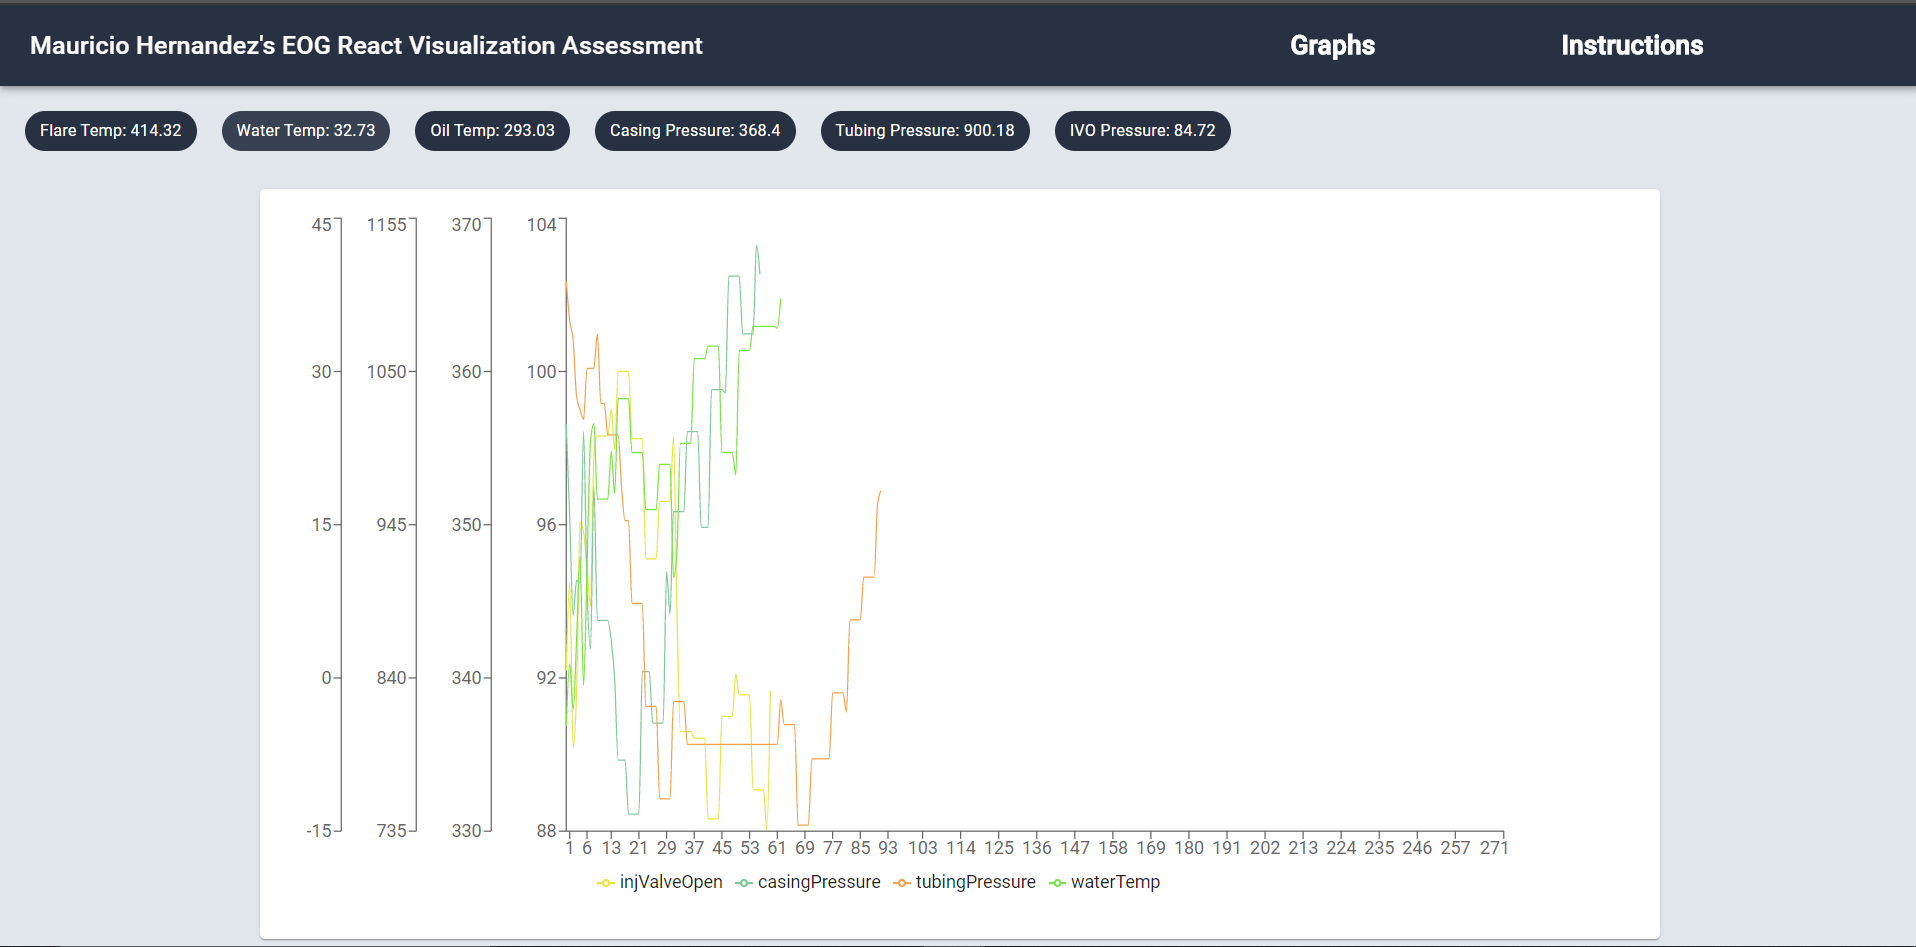
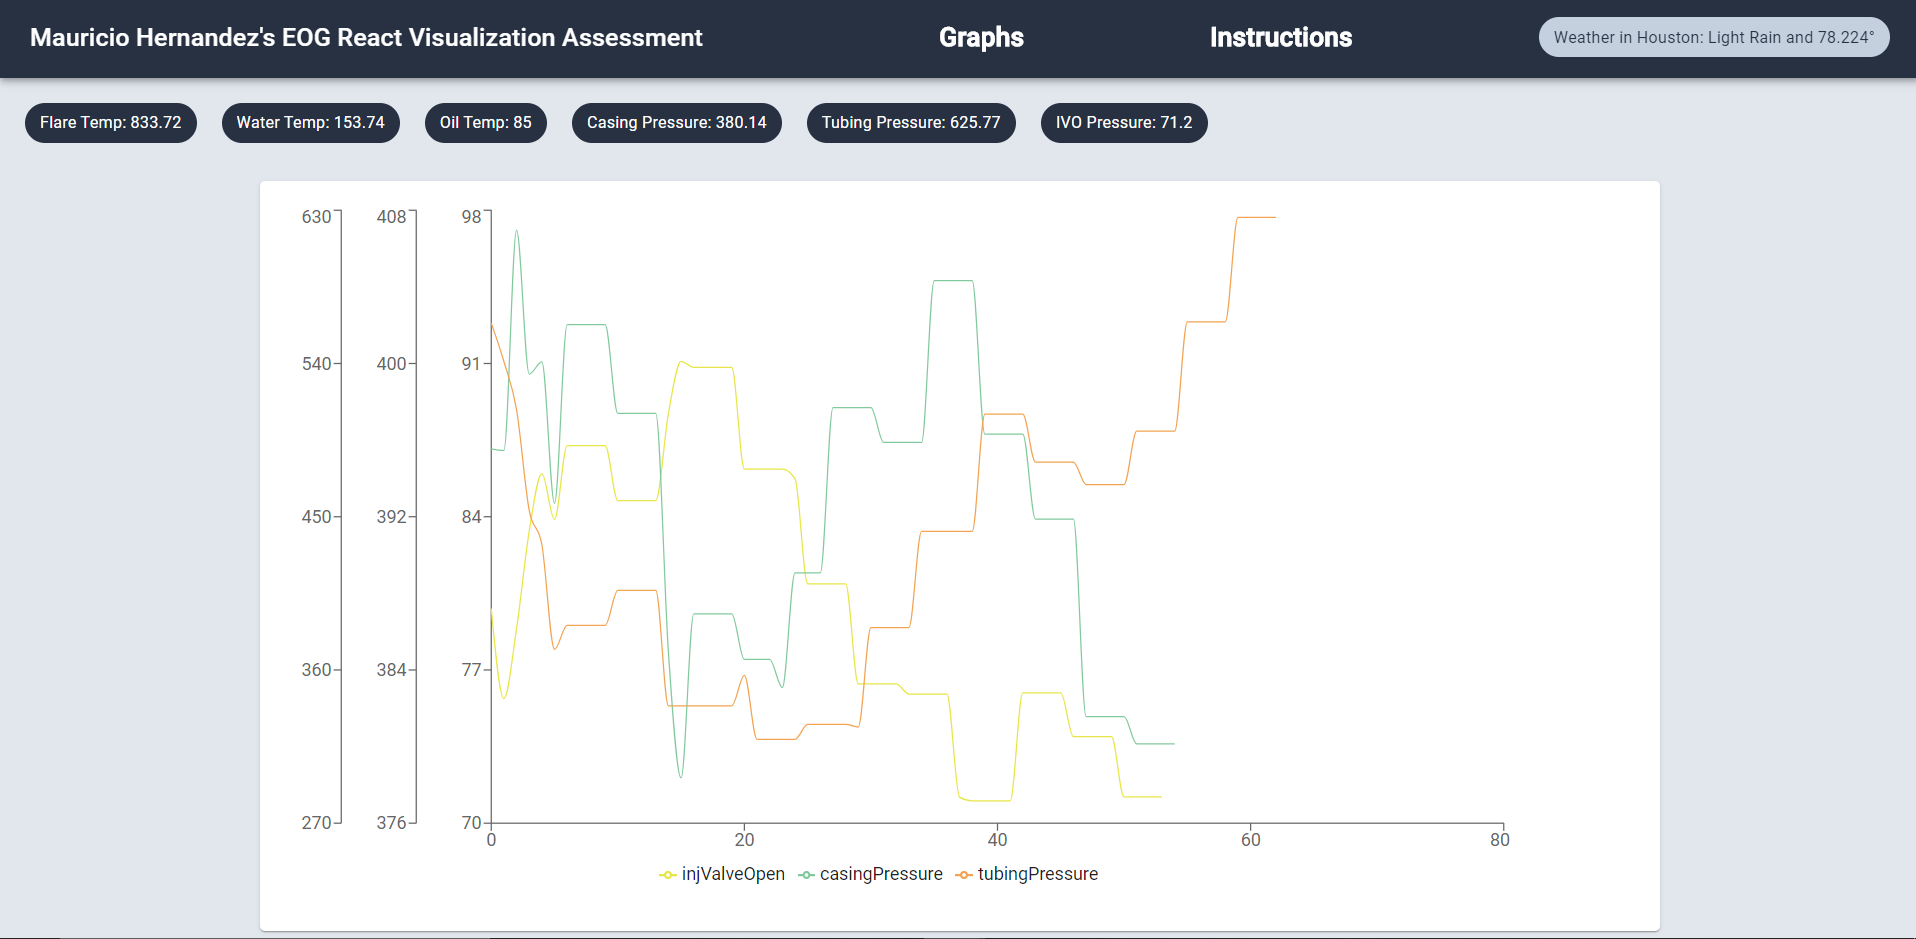
fixed x-axis

diff --git a/src/App.tsx b/src/App.tsx
@@ -38,10 +38,6 @@ const GET_MEASUREMENTS = gql`subscription{newMeasurement{
 }
 }`;
 
-interface AppProps {
-  //code related to your props goes here
-}
-
 
 interface AppState {
   oilData: Array<object>,
@@ -65,7 +61,21 @@ let casingPressure = '';
 let tubingPressure = '';
 let InjValveOpen = '';
 
-class App extends Component<AppProps, AppState> {
+const IVOArr = [] as Array<object>;
+const TPArr = [] as Array<object>;
+const CPArr = [] as Array<object>;
+const FTArr = [] as Array<object>;
+const WTArr = [] as Array<object>;
+const OTArr = [] as Array<object>;
+
+let IVOCount = 0;
+let OilCount = 0;
+let waterCount = 0;
+let flareCount = 0;
+let CPCount = 0;
+let TPCount = 0;
+
+class App extends Component<AppState> {
 
   state = {
     oilData: [] as any,
@@ -87,41 +97,57 @@ class App extends Component<AppProps, AppState> {
    dataSort = (data) => {
 
     if (data.newMeasurement.metric === 'injValveOpen') {
-      const IVOLog = {injValveOpen: data.newMeasurement.value};
-      setTimeout(() => this.setState({IVOData: [...this.state.IVOData, IVOLog]}), 200);
+      const IVOLog = {injValveOpen: data.newMeasurement.value, x: IVOCount};
+      IVOCount ++
+      IVOArr.push(IVOLog)
+      if (IVOArr.length > 100) {IVOArr.shift()}
+      setTimeout(() => this.setState({IVOData: IVOArr}), 50)
       InjValveOpen = 'IVO Pressure: ' + data.newMeasurement.value
-
-    }
+    };
 
 
     if (data.newMeasurement.metric === 'casingPressure') {
-      const CPLog = {casingPressure: data.newMeasurement.value};
-      setTimeout(() => this.setState({casingPressure: [...this.state.casingPressure, CPLog]}), 200);
+      const CPLog = {casingPressure: data.newMeasurement.value, x: CPCount};
+      CPCount ++
+      CPArr.push(CPLog)
+      if (CPArr.length > 100) {CPArr.shift()}
+      setTimeout(() => this.setState({casingPressure: CPArr}), 50)
       casingPressure = 'Casing Pressure: ' + data.newMeasurement.value
-
-    }
+    };
 
     if (data.newMeasurement.metric === 'tubingPressure') {
-      const TPLog = {tubingPressure: data.newMeasurement.value};
-      setTimeout(() => this.setState({tubingPressure: [...this.state.tubingPressure, TPLog]}), 200);
+      const TPLog = {tubingPressure: data.newMeasurement.value, x: TPCount};
+      TPArr.push(TPLog)
+      TPCount ++
+      if (TPArr.length > 100) {TPArr.shift()}
+      setTimeout(() => this.setState({tubingPressure: TPArr}), 50)
       tubingPressure = 'Tubing Pressure: ' + data.newMeasurement.value
-    }
+    };
 
     if (data.newMeasurement.metric === 'flareTemp') {
-      const flareLog = {flareTemp: data.newMeasurement.value};
-      setTimeout(() => this.setState({flareData: [...this.state.flareData, flareLog]}), 200);
+      const flareLog = {flareTemp: data.newMeasurement.value, x: flareCount};
+      FTArr.push(flareLog)
+      flareCount ++
+      if (FTArr.length > 100) {FTArr.shift()}
+      setTimeout(() => this.setState({flareData: FTArr}), 50)
       flareTemp = 'Flare Temp: ' + data.newMeasurement.value
     };
 
     if (data.newMeasurement.metric === 'waterTemp') {
-      const waterLog = {waterTemp: data.newMeasurement.value};
-      setTimeout(() => this.setState({waterData: [...this.state.waterData, waterLog]}), 200);
+      const waterLog = {waterTemp: data.newMeasurement.value, x: waterCount};
+      WTArr.push(waterLog)
+      waterCount ++
+      if (WTArr.length > 100) {WTArr.shift()}
+      setTimeout(() => this.setState({waterData: WTArr}), 50)
       waterTemp = 'Water Temp: ' + data.newMeasurement.value
     };
 
     if (data.newMeasurement.metric === 'oilTemp') {
-      const oilLog = {oilTemp: data.newMeasurement.value};
-      setTimeout(() => this.setState({oilData: [...this.state.oilData, oilLog]}), 200);
+      const oilLog = {oilTemp: data.newMeasurement.value, x: OilCount};
+      OTArr.push(oilLog)
+      OilCount ++
+      if (OTArr.length > 100) {OTArr.shift()}
+      setTimeout(() => this.setState({oilData: OTArr}), 50)
       oilTemp = 'Oil Temp: ' + data.newMeasurement.value
     };
 
@@ -172,8 +198,8 @@ render() {
               <GraphChip name={waterTemp} handleChipClick={this.handleWaterClick} />
               <GraphChip name={oilTemp} handleChipClick={this.handleOilClick} />
               <GraphChip name={casingPressure} handleChipClick={this.handleCasingClick} />
-              <GraphChip name={tubingPressure} handleChipClick={this.handleIVOClick} />
-              <GraphChip name={InjValveOpen} handleChipClick={this.handleTubingClick} />
+              <GraphChip name={tubingPressure} handleChipClick={this.handleTubingClick} />
+              <GraphChip name={InjValveOpen} handleChipClick={this.handleIVOClick} />
 
               <ChartCard>
                 <Subscription subscription={GET_MEASUREMENTS}>

diff --git a/src/components/Chart.tsx b/src/components/Chart.tsx
@@ -3,11 +3,11 @@ import { LineChart, Line, XAxis, YAxis, Tooltip, Legend } from 'recharts';
 
 
 export default (props) => {
+    const array = [0, 20, 40, 60, 80, 100]
     return (
         <div>
             <LineChart width={1000} height={550}>
-                <XAxis domain={['auto', 1000]} />
-                {/* <YAxis domain={['auto', 1000]} /> */}
+                <XAxis xAxisId='xAxis' domain={['dataMin', 'dataMax']} type='number' dataKey='x' />
                 <Legend />
                 <Tooltip />
 
@@ -15,40 +15,40 @@ export default (props) => {
                 <YAxis yAxisId='IVO' domain={['auto', 'auto']} />
                 }
                 {props.IVOShow && 
-                <Line yAxisId='IVO' dot={false} data={props.IVOData}  type="monotone" dataKey="injValveOpen" stroke="#E7E648" isAnimationActive={false} />
+                <Line xAxisId='xAxis' yAxisId='IVO' dot={false} data={props.IVOData}  type="monotone" dataKey="injValveOpen" stroke="#E7E648" isAnimationActive={false} />
                 }
 
                 {props.CPShow &&
                 <YAxis yAxisId='CP' domain={['auto', 'auto']} />
                 }
                 {props.CPShow && 
-                <Line yAxisId='CP' dot={false} data={props.CPData} type="monotone"  dataKey="casingPressure" stroke="#82ca9d" isAnimationActive={false} />
+                <Line xAxisId='xAxis' yAxisId='CP' dot={false} data={props.CPData} type="monotone"  dataKey="casingPressure" stroke="#82ca9d" isAnimationActive={false} />
                 }
 
                 {props.TPShow &&
                 <YAxis yAxisId='TP' domain={['auto', 'auto']} />
                 }
                 {props.TPShow && 
-                <Line yAxisId='TP' dot={false} data={props.TPData} type="monotone" dataKey="tubingPressure" stroke="#f2a353" isAnimationActive={false} />
+                <Line xAxisId='xAxis' yAxisId='TP' dot={false} data={props.TPData} type="monotone" dataKey="tubingPressure" stroke="#f2a353" isAnimationActive={false} />
                 }
 
                 {props.WTShow &&
                 <YAxis yAxisId='WT' domain={['auto', 'auto']} />
                 }
                 {props.WTShow && 
-                <Line yAxisId='WT' dot={false} data={props.waterData} type="monotone" dataKey="waterTemp" stroke="#7ce348" isAnimationActive={false} />      }
+                <Line xAxisId='xAxis' yAxisId='WT' dot={false} data={props.waterData} type="monotone" dataKey="waterTemp" stroke="#7ce348" isAnimationActive={false} />      }
 
                 {props.FTShow &&
                 <YAxis yAxisId='FT' domain={['auto', 'auto']} />
                 }
                 {props.FTShow && 
-                <Line yAxisId='FT' dot={false} data={props.flareData} type="monotone" dataKey="flareTemp" stroke="#f42b3f" isAnimationActive={false} />      }
+                <Line xAxisId='xAxis' yAxisId='FT' dot={false} data={props.flareData} type="monotone" dataKey="flareTemp" stroke="#f42b3f" isAnimationActive={false} />      }
 
                 {props.OTShow &&
                 <YAxis yAxisId='OT' domain={['auto', 'auto']} />
                 }
                 {props.OTShow && 
-                <Line yAxisId='OT' dot={false} data={props.oilData} type="monotone" dataKey="oilTemp" stroke="#311eff" isAnimationActive={false} /> 
+                <Line xAxisId='xAxis' yAxisId='OT' dot={false} data={props.oilData} type="monotone" dataKey="oilTemp" stroke="#311eff" isAnimationActive={false} /> 
                 }
             </LineChart>
         </div>

diff --git a/src/components/GraphChip.tsx b/src/components/GraphChip.tsx
@@ -26,7 +26,6 @@ export default (props) => {
   return (
     <Chip
         className={classes.chip}
-        // avatar={<Avatar>F</Avatar>}
         label={props.name}
         clickable
         color="primary"
